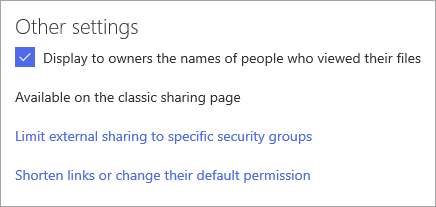
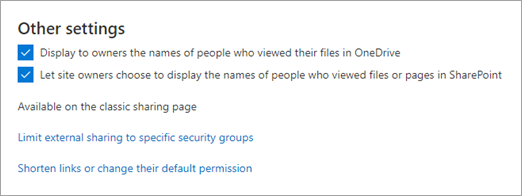
Added new setting

diff --git a/SharePoint/SharePointOnline/turn-external-sharing-on-or-off.md b/SharePoint/SharePointOnline/turn-external-sharing-on-or-off.md
@@ -119,14 +119,22 @@ If you are using file requests, the link permissions must be set for **View and 
 
 **Display to owners the names of people who viewed their files**
 
-This setting lets you control whether the owner of a shared file can see the people who only view (and don't edit) the file in OneDrive file access statistics. File access statistics appear on a card when users hover over a file name or thumbnail in OneDrive. The statistics include the number of views on the file, the number of people who viewed it, and the list of people who viewed it.
+This setting lets you control whether the owner of a shared file can see on the file card the people who only view (and don't edit) the file in OneDrive. The file card appears when users hover over a file name or thumbnail in OneDrive. The info includes the number of views on the file, the number of people who viewed it, and the list of people who viewed it. To learn more about the file card, see [See files you shared in OneDrive](https://support.office.com/article/6b67b82b-9c5c-4348-ab10-fd5b0d8df76c). 
 
 > [!NOTE]
 > This setting is selected by default. If you clear it, file viewer info is still recorded and available to you to audit as an admin. OneDrive owners will also still be able to see people who have viewed their shared Office files by opening the files from Office.com or from the Office desktop apps.
 
-On the classic sharing page, you can choose whether you want the default link permission to be view or edit. 
+**Let site owners choose to display the names of people who viewed files or pages in SharePoint**
 
-You can also allow only users in specific security groups to share externally. To see the security groups in your organization, go to the [Groups page in the Microsoft 365 admin center](https://admin.microsoft.com/Adminportal/Home#/groups).
+This setting lets you specify whether site owners can allow users who have access to a file, page, or news post to see on the file card who has viewed the item. 
+
+This setting is turned on by default at the organization level and off at the site level for existing sites. Viewer information is shown only when the setting is on at both the organization and site level. We recommend that site owners enable this feature only on team sites that don't have sensitive information. Site owners can do this from the Site settings page by selecting **Manage site features**, searching for **SharePoint Viewers**, and selecting **Activate**.
+
+> [!NOTE]
+> Historical data is included when this setting is enabled. Likewise, if the setting is turned off and back on at the organization level or site level, the views during the off period will be included in the history.
+
+On the classic Sharing page, you can limit external sharing by security group and shorten sharing links or change their default permission.
+
 
 ## Need more help?
 
